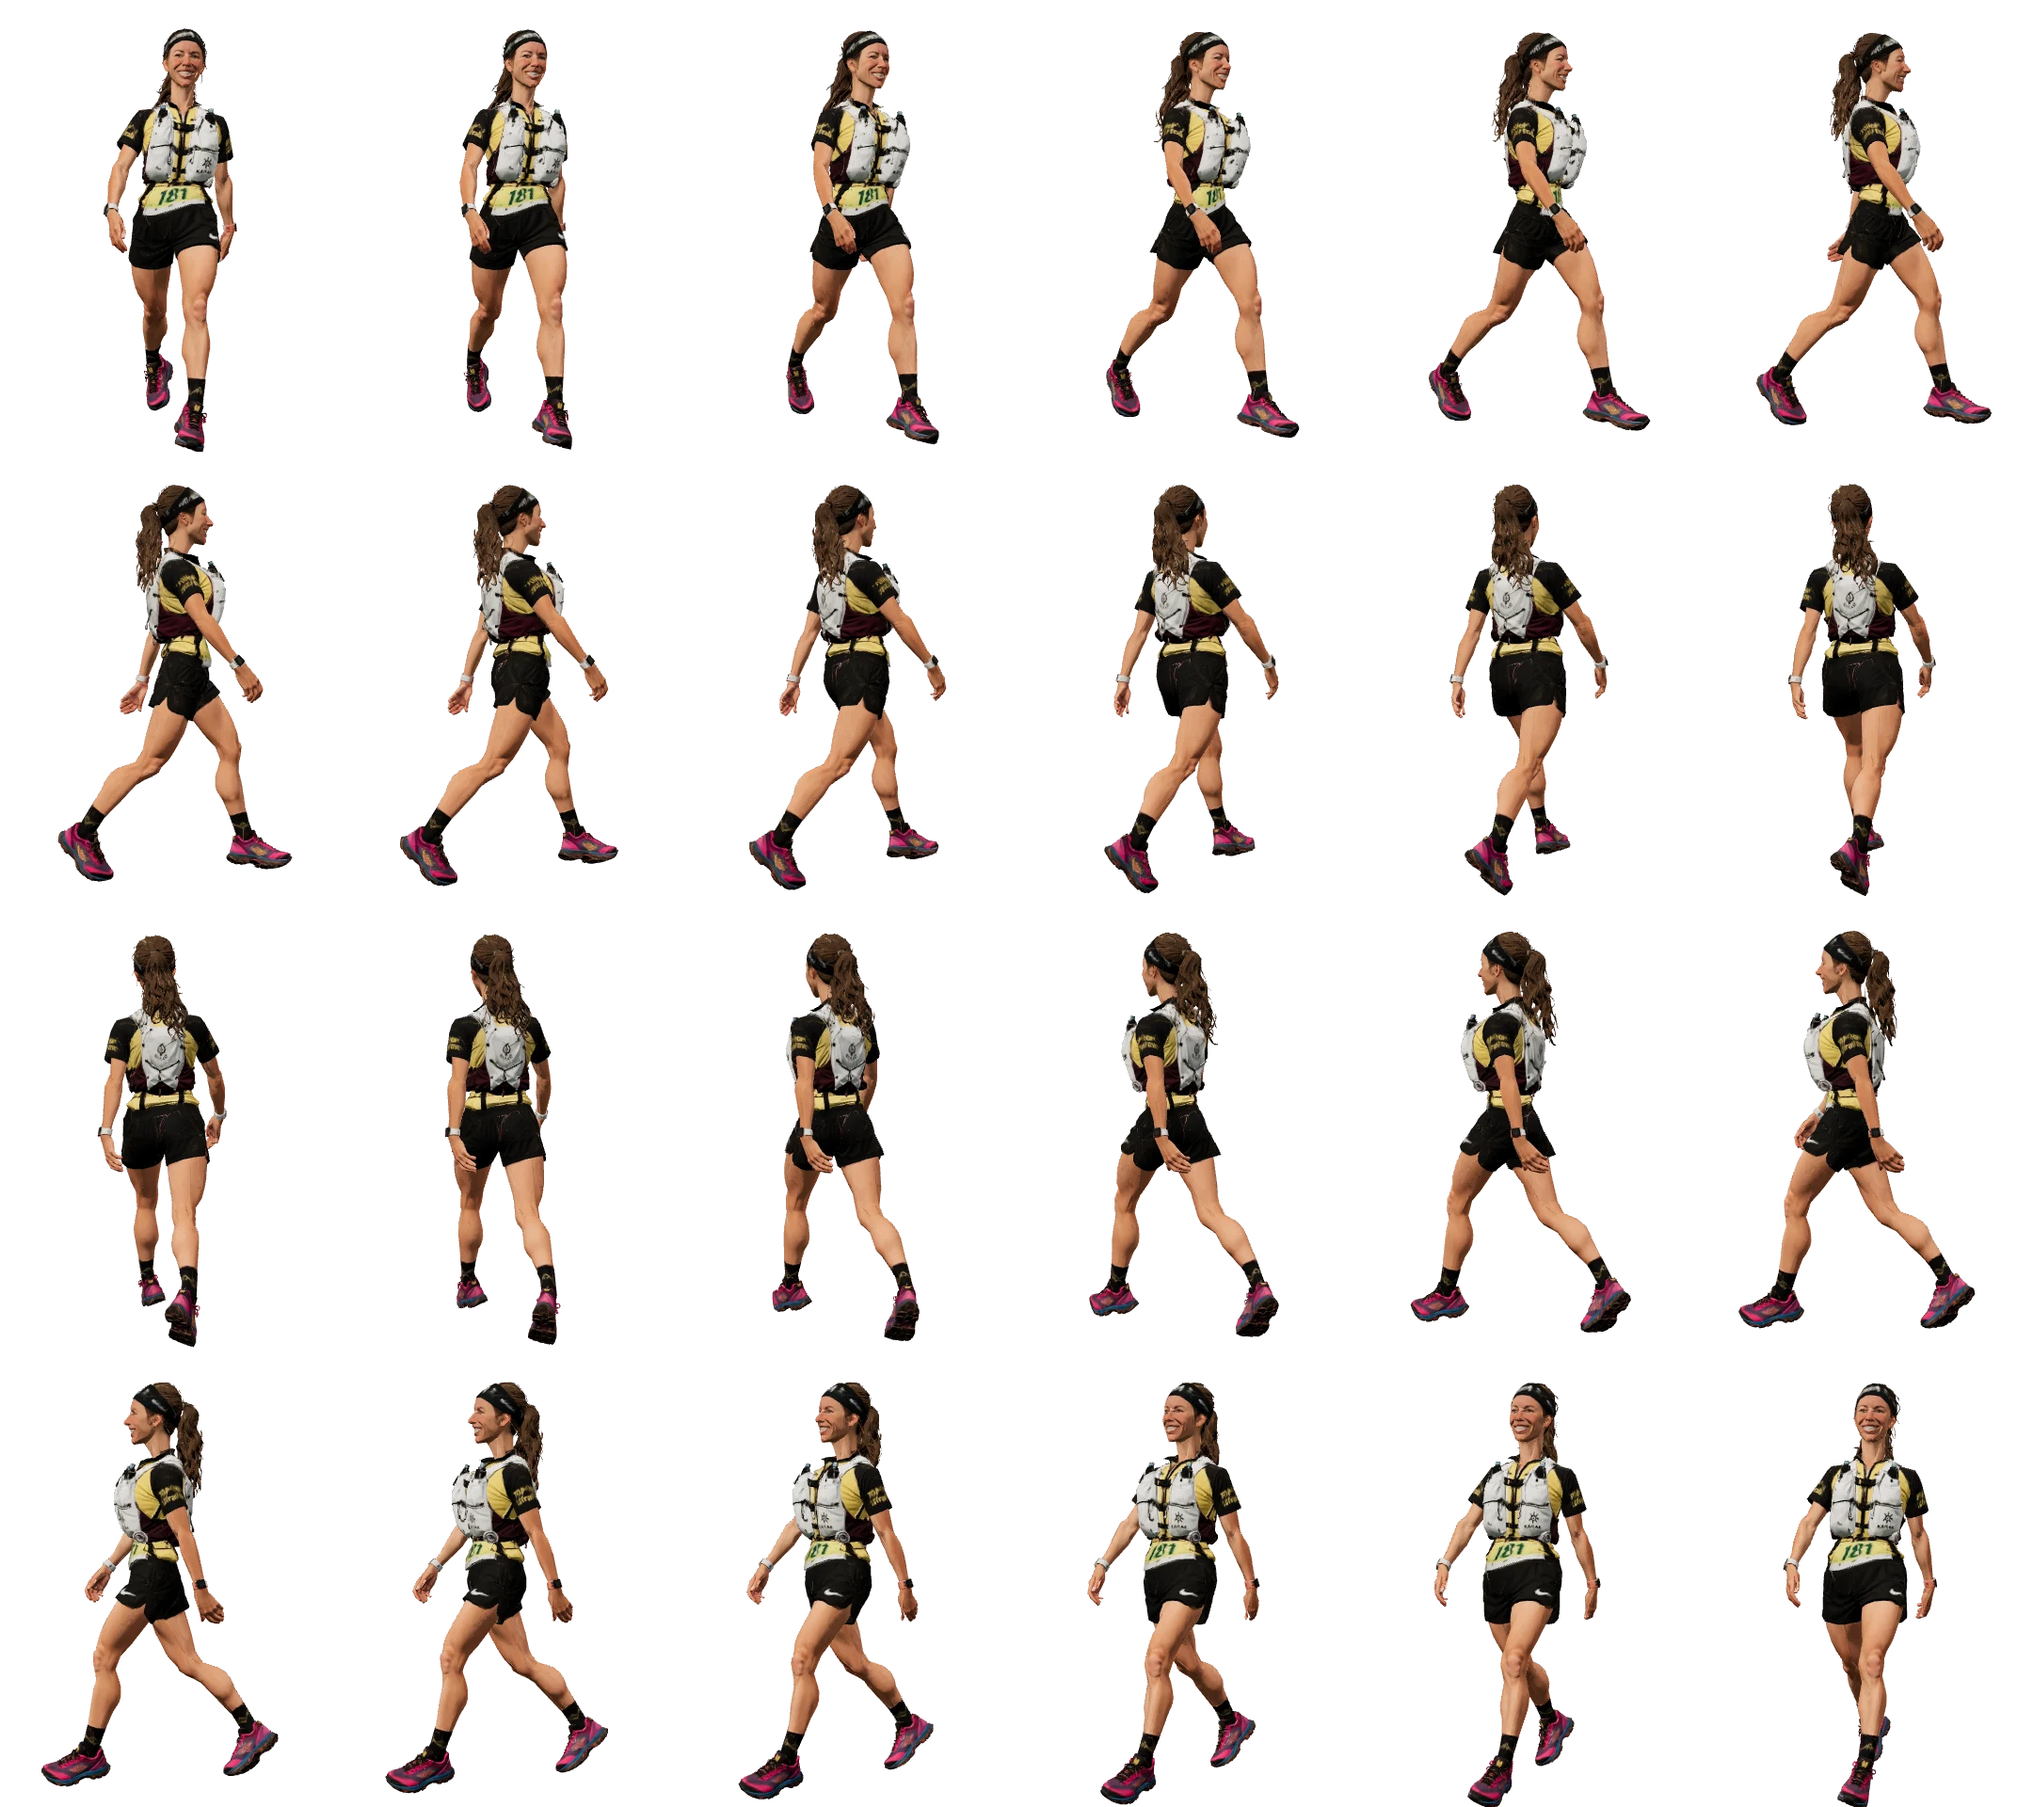
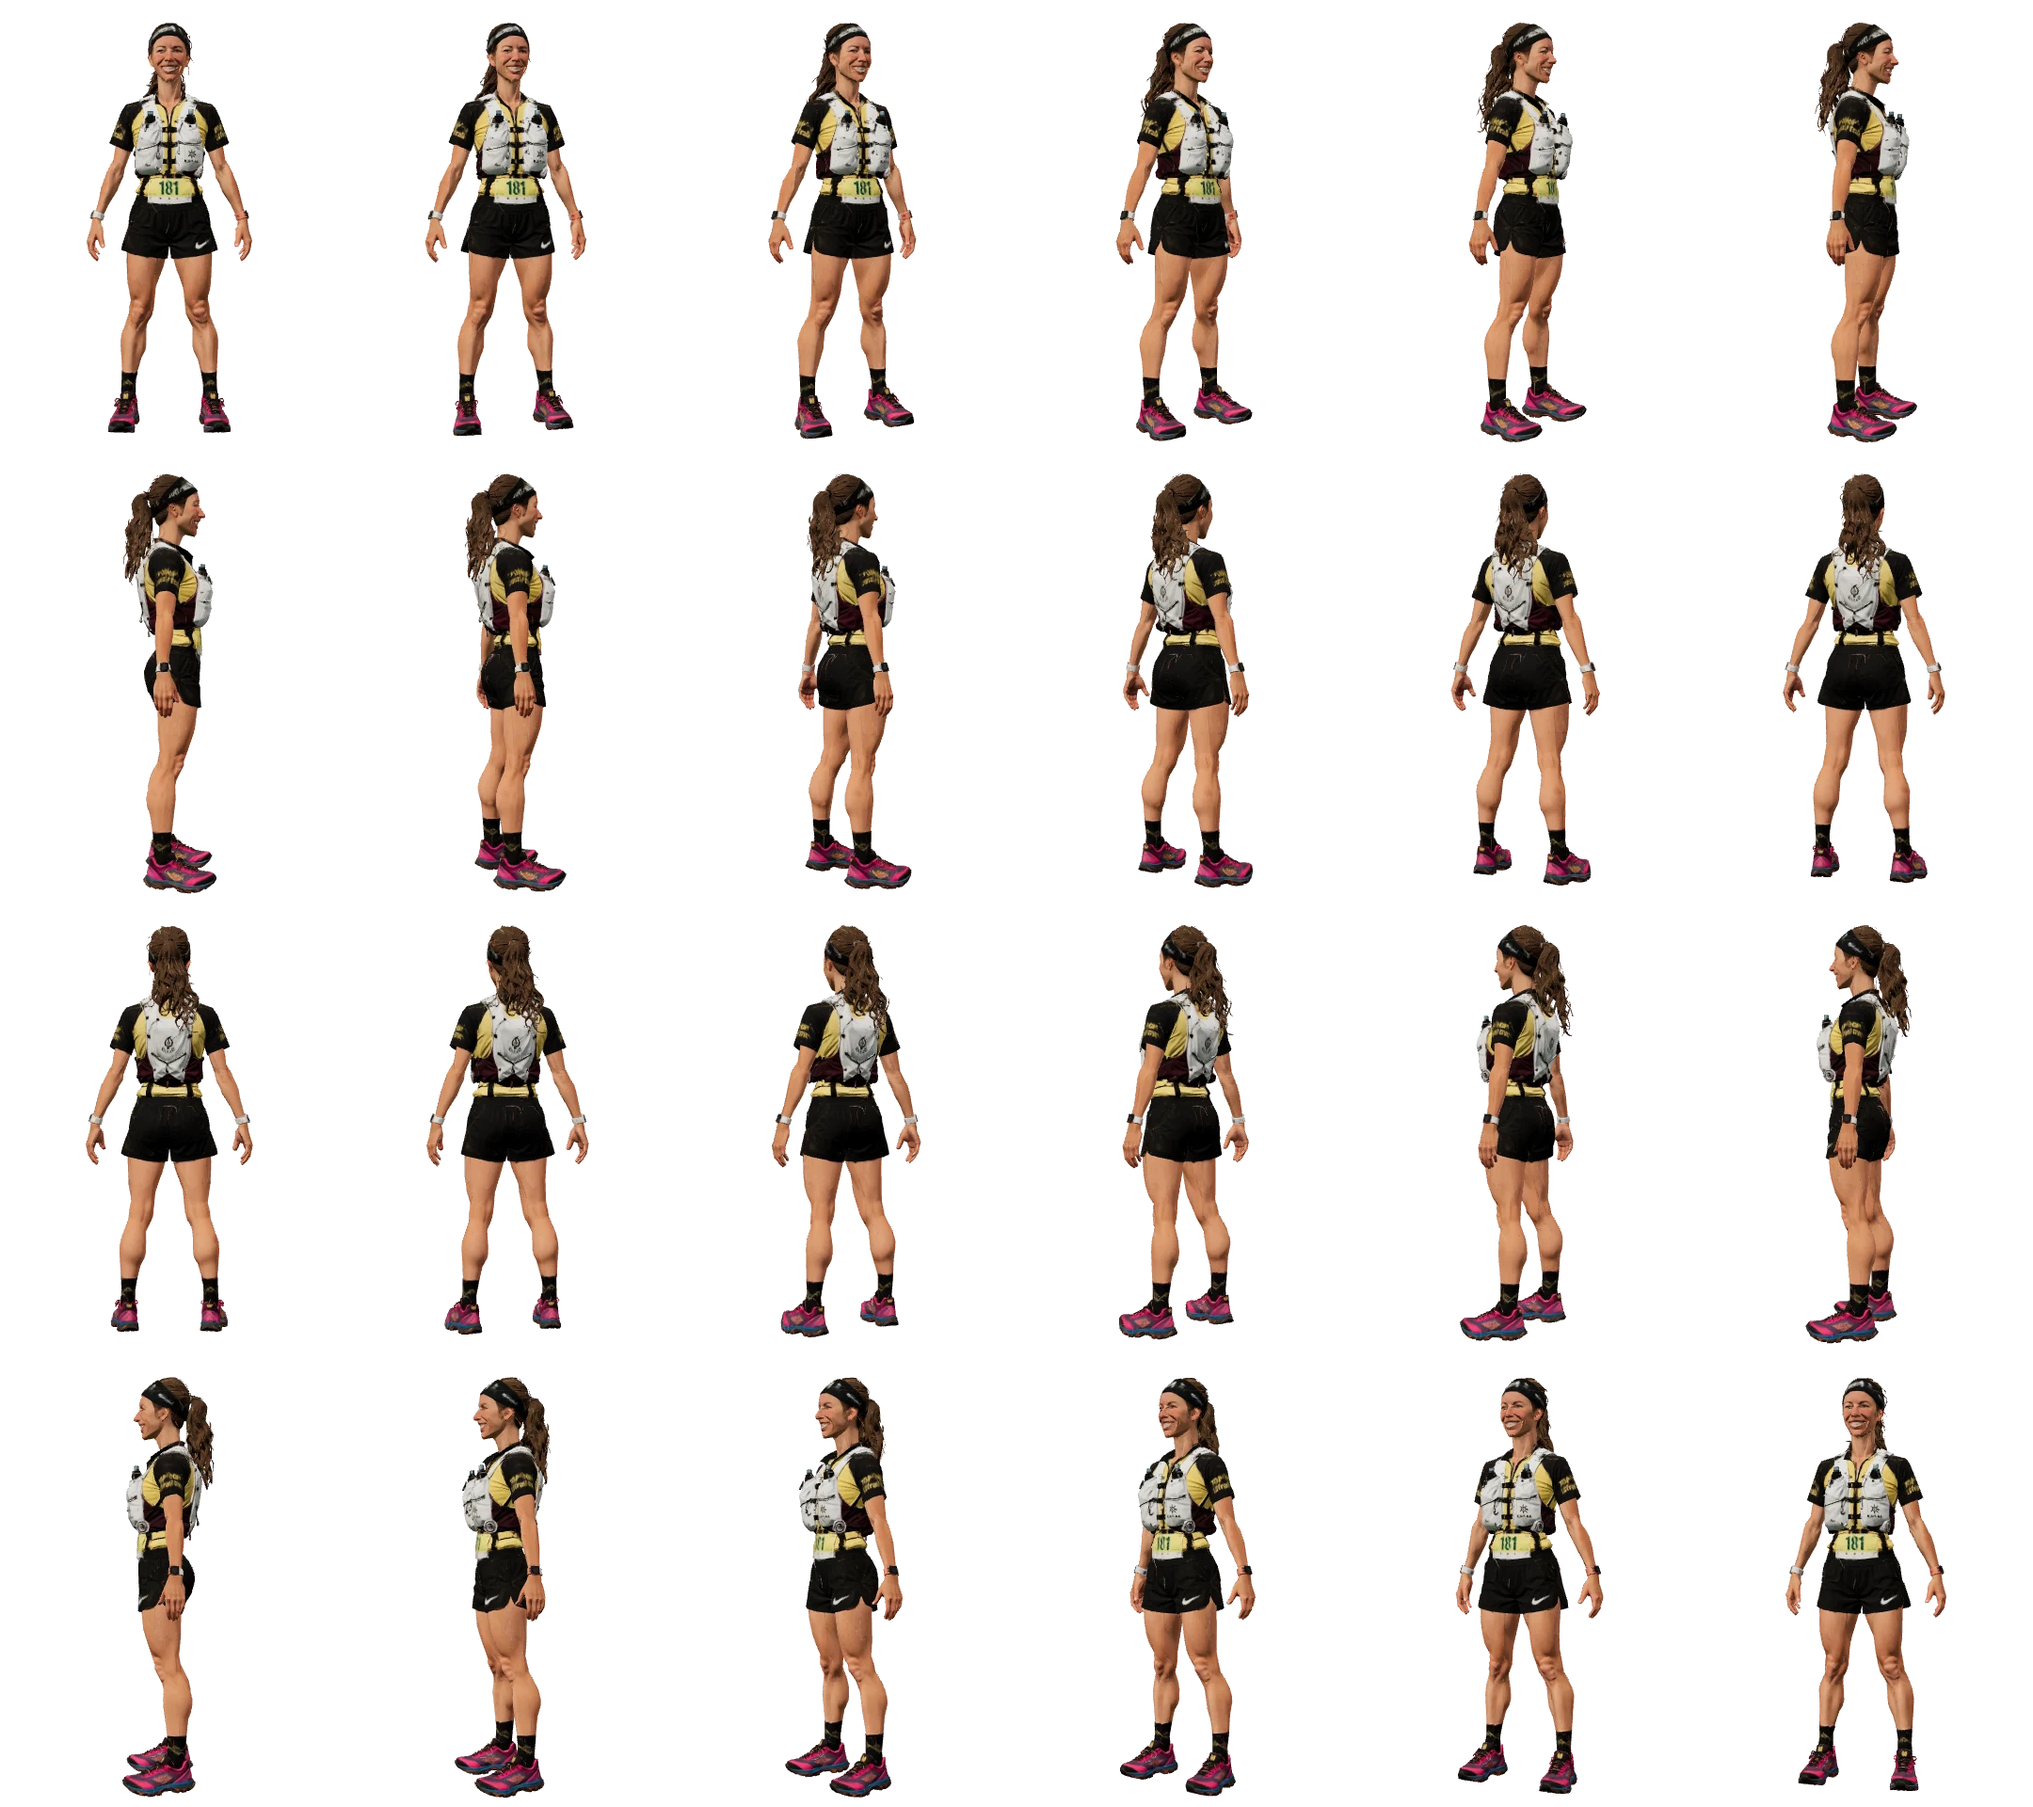
v84: vincitori rivolti nel verso di marcia (+90 gradi), posa eretta nel menu, targhette piccole a destra fuori dalla figura con dati di gara (SRM e ATRS 2026), layout telefono
Claude-Session: https://claude.ai/code/session_017w6gSgfiGt9VxkuNSd9zvR

diff --git a/app.js b/app.js
@@ -6,7 +6,7 @@ import { GLTFLoader } from 'three/addons/loaders/GLTFLoader.js';
 import { DRACOLoader } from 'three/addons/loaders/DRACOLoader.js';
 import { mergeGeometries, mergeVertices } from 'three/addons/utils/BufferGeometryUtils.js';
 
-const VER = 'v83';
+const VER = 'v84';
 
 // ---------- nebbia "d'altura": densa nelle valli, aria pulita in cresta ----------
 // Si sostituiscono i chunk della nebbia di three prima che qualunque materiale compili:
@@ -47,23 +47,24 @@ const VMAX = 175, ACC = 240, VTELE = 3600;
 // glb: ~700 KB l'uno (12k tris, texture webp 1024, draco), caricato solo se scelto, al VAI.
 const AVATARS = [
   { id: 'lino', nome: 'Lino', breve: 'LINO', attivo: true, giro: 'lino_giro', tags: [
-      ['FACCIA DA SINDACO', 'ricorda qualcuno', 0.50, 0.13, 1],
-      ['FISICO ATLETICO', 'o quasi', 0.44, 0.40, -1],
-      ['SCARPE TECNICHE', 'collaudate sul brecciato', 0.52, 0.90, 1],
-      ['MATERIALE OBBLIGATORIO', 'occhio che lo controlliamo', 0.64, 0.56, 1],
-      ['GAMBE DA 2.109 M D+', 'garanzia 29,7 km', 0.44, 0.73, -1],
-      ['SGUARDO FISSO SUL VELINO', 'o sul primo ristoro?', 0.54, 0.16, -1],
-      ['ZAINO LEGGERO', 'con tanta acqua e sali', 0.40, 0.35, 1] ] },
-  { id: 'vincitore', nome: 'Vincitore<br>SRM 2026', breve: 'CARLO', attivo: true, glb: 'vincitore.glb', giro: 'vincitore_giro',
+      ['FACCIA DA SINDACO', 'ricorda qualcuno', 0.50, 0.13],
+      ['SCARPE TECNICHE', 'collaudate sul brecciato', 0.52, 0.90],
+      ['MATERIALE OBBLIGATORIO', 'occhio che lo controlliamo', 0.64, 0.56],
+      ['GAMBE DA 2.109 M D+', 'garanzia 29,7 km', 0.44, 0.73],
+      ['ZAINO LEGGERO', 'con tanta acqua e sali', 0.40, 0.35] ] },
+  // dati di gara: classifica SRM 2026 (cronometraggio) e classifica finale Abruzzo Trail Run Series 2026
+  { id: 'vincitore', nome: 'Vincitore<br>SRM 2026', breve: 'CARLO', attivo: true, glb: 'vincitore.glb', giro: 'vincitore_giro', rotY: Math.PI / 2,
     titolo: 'VINCITORE SRM 2026', sotto: 'Carlo Silvagni · 3h 28’ 31”', tags: [
-      ['PETTORALE 169', 'Sporting Club USA Avezzano', 0.50, 0.42, 1],
-      ['3H 28’ 31”', 'primo assoluto della SRM 2026', 0.52, 0.14, -1],
-      ['6’57” AL KM', 'con 2.079 m di salita', 0.46, 0.78, -1] ] },
-  { id: 'vincitrice', nome: 'Vincitrice<br>SRM 2026', breve: 'FEDERICA', attivo: true, glb: 'vincitrice.glb', giro: 'vincitrice_giro',
+      ['PETTORALE 169', 'Skyrace del Maglio 2026', 0.50, 0.42],
+      ['1° ASSOLUTO', '3h 28’ 31” · 6’57” al km', 0.50, 0.14],
+      ['+4’ 42” SUL SECONDO', 'Domenico Volpe', 0.50, 0.60],
+      ['1° ATRS 2026', 'Abruzzo Trail Run Series, generale', 0.50, 0.82] ] },
+  { id: 'vincitrice', nome: 'Vincitrice<br>SRM 2026', breve: 'FEDERICA', attivo: true, glb: 'vincitrice.glb', giro: 'vincitrice_giro', rotY: Math.PI / 2,
     titolo: 'VINCITRICE SRM 2026', sotto: 'Federica Pelosi · 4h 03’ 55”', tags: [
-      ['PETTORALE 181', 'Top Trail', 0.50, 0.42, -1],
-      ['4H 03’ 55”', 'prima assoluta della SRM 2026', 0.52, 0.14, 1],
-      ['IN CRESTA', 'la foto della home del sito', 0.46, 0.78, 1] ] }
+      ['PETTORALE 181', 'Skyrace del Maglio 2026', 0.50, 0.42],
+      ['1ª ASSOLUTA', '4h 03’ 55” · 8’08” al km', 0.50, 0.14],
+      ['+7’ 16” SULLA SECONDA', 'Malgorzata Burkiewicz', 0.50, 0.60],
+      ['1ª ATRS 2026', 'Abruzzo Trail Run Series, generale', 0.50, 0.82] ] }
 ];
 const nomeAvatar = () => (AVATARS.find(a => a.id === st.avatar) || AVATARS[0]).breve;
 // Carosello: Lino al centro (come sempre), due frecce ai lati. A destra il Vincitore, a sinistra la
@@ -102,6 +103,7 @@ async function caricaAvatar(id){
   const lg = await loadGLB(LOADER, 'assets/' + av.glb + '?' + VER, () => {});
   if (lino) scene.remove(lino);
   mixer = null; action = null; LINOACT = null; LINOPOLI = []; LINO2 = true;
+  if (av.rotY) lg.scene.rotation.y = av.rotY;   // i Meshy guardano +z: Lino avanza lungo +x
   prepLino(lg);
   if (st.view === 'fpv' && lino) lino.visible = false;
   const seg = $('b-seg'); if (seg) seg.textContent = 'SEGUI ' + av.breve;
@@ -149,14 +151,20 @@ function loaderShow(){
     const ax = ix + t[2] * W, ay = t[3] * H;
     chip.innerHTML = '<b>' + t[0] + '</b><br>' + t[1];
     chip.style.opacity = 0;
-    chip.style.left = ''; chip.style.right = '';
-    if (t[4] > 0) chip.style.right = '0px'; else chip.style.left = '0px';
-    chip.style.top = Math.max(0, Math.min(bh - 64, ay - 26)) + 'px';
+    // targhette sempre a destra, nella colonna libera fra il personaggio e il bordo (mai sopra la figura),
+    // all'altezza del punto indicato ma fuori dalla fascia della freccia del carosello
+    chip.style.left = ''; chip.style.right = '0px';
+    chip.style.maxWidth = Math.max(56, Math.floor((bw - W) / 2) - 6) + 'px';
+    let top = ay - 18;
+    const ar = $('av-next') ? $('av-next').getBoundingClientRect() : null, br0 = box.getBoundingClientRect();
+    const fA = ar ? ar.top - br0.top - 4 : bh / 2 - 26, fB = ar ? ar.bottom - br0.top + 2 : bh / 2 + 24;   // fascia della freccia
+    if (top + 40 > fA && top < fB) top = (ay < (fA + fB) / 2) ? fA - 42 : fB + 2;
+    chip.style.top = Math.max(0, Math.min(bh - 44, top)) + 'px';
     requestAnimationFrame(() => {
       chip.style.opacity = 1;
       const cr = chip.getBoundingClientRect(), br = box.getBoundingClientRect();
       if (br.width < 4) return;
-      const cx2 = t[4] > 0 ? (cr.left - br.left - 3) : (cr.right - br.left + 3);
+      const cx2 = cr.left - br.left - 3;
       const cy2 = cr.top - br.top + cr.height / 2;
       svg.setAttribute('viewBox', '0 0 ' + bw + ' ' + bh);
       // la linea si ferma PRIMA del personaggio e finisce con una punta di

diff --git a/index.html b/index.html
@@ -126,9 +126,9 @@ html,body{height:100%;overflow:hidden;background:var(--verde);color:var(--avorio
 #spin-img{position:absolute;left:50%;top:0;transform:translateX(-50%);width:240px;height:320px;
   background-repeat:no-repeat;display:none;filter:drop-shadow(0 10px 16px rgba(0,0,0,.45))}
 #spin-svg{position:absolute;inset:0;width:100%;height:100%;pointer-events:none;overflow:visible}
-#spin-chip{position:absolute;max-width:170px;padding:6px 9px;border:1px solid rgba(243,239,226,.45);
-  border-radius:7px;background:rgba(12,31,20,.88);font-family:"JetBrains Mono",monospace;
-  font-size:10px;line-height:1.5;letter-spacing:.03em;color:var(--avorio);text-transform:uppercase;
+#spin-chip{position:absolute;max-width:105px;padding:4px 7px;border:1px solid rgba(243,239,226,.45);
+  border-radius:6px;background:rgba(12,31,20,.88);font-family:"JetBrains Mono",monospace;
+  font-size:8.5px;line-height:1.45;letter-spacing:.02em;color:var(--avorio);text-transform:uppercase;
   text-align:left;opacity:0;transition:opacity .45s}
 #spin-chip b{color:var(--arancio)}
 
@@ -244,6 +244,13 @@ body.grif.tour #ctrls{bottom:calc(108px + env(safe-area-inset-bottom))}
   #ctrls{gap:4px}
   #nav-hint{display:none}
 }
+@media (max-width:520px){
+  .av-arr{top:auto;bottom:-4px;margin-top:0}            /* sul telefono le frecce scendono agli angoli: la colonna delle targhette resta libera */
+  #spin-chip{font-size:8px;padding:3px 5px}
+  #av-titolo b{font-size:22px}
+  #loader{padding-left:6px;padding-right:6px}
+  #spinbox{max-width:calc(100vw - 12px)}
+}
 </style>
 </head>
 <body>
@@ -350,6 +357,6 @@ body.grif.tour #ctrls{bottom:calc(108px + env(safe-area-inset-bottom))}
   "three/addons/":"https://cdn.jsdelivr.net/npm/three@0.169.0/examples/jsm/"
 }}
 </script>
-<script type="module" src="app.js?v=83"></script>
+<script type="module" src="app.js?v=84"></script>
 </body>
 </html>
